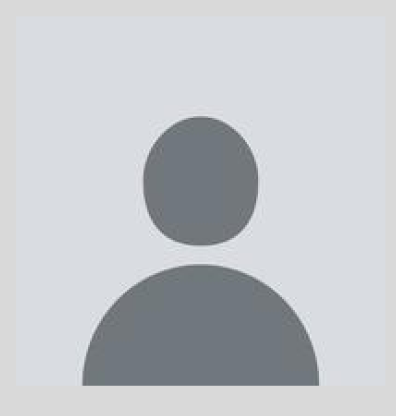
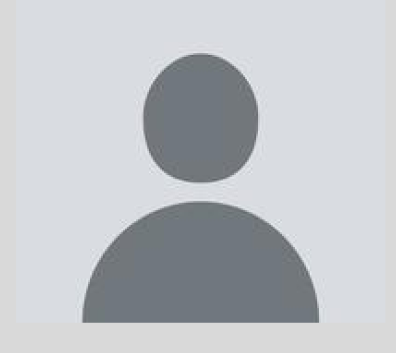
some changes

Changed region(s): [[0.2121, 0.1246, 0.8182, 0.9348]]

diff --git a/BSS-frontend/src/app/dashboard/dashboard.component.html b/BSS-frontend/src/app/dashboard/dashboard.component.html
@@ -40,9 +40,9 @@
                     <div class="battery-box-heading"><p>बैटरी-5</p></div>
                     <div class="battery-box">
                         <img [@batterySwapAnimation]="isSwapping ? 'open' : 'closed'" 
-                        src="./assets/{{isSwapping ? 'open-door1.jpeg' : 'charges-battery.png'}}" 
+                        src="./assets/{{isSwapping ? 'drawer.png' : 'charges-battery.png'}}" 
                         alt="battery-image">
-                                        </div>
+                    </div>
                 </div>
                 <div class="battery-box-p">
                     <div class="battery-box-heading"><p>बैटरी-6</p></div>
@@ -86,10 +86,10 @@
                 </div>
             </div>
             <div class="about-client" *ngIf="selectedUser">
-                <p>ग्राहक आईडी:{{selectedUser.userId}}</p>
-                <p>नाम:{{selectedUser.userName}}</p>
-                <p>इंजन संख्या:{{selectedUser.engineNumber}}</p>
-                <p>मोबाइल नंबर:{{selectedUser.mobileNumber}}</p>
+                <p>ग्राहक आईडी: <span>{{selectedUser.userId}}</span></p>
+                <p>नाम: <span>{{selectedUser.userName}}</span> </p>
+                <p>इंजन संख्या: <span>{{selectedUser.engineNumber}}</span> </p>
+                <p>मोबाइल नंबर: <span>{{selectedUser.mobileNumber}}</span> </p>
             </div>
         </div>
     </div>

diff --git a/BSS-frontend/src/app/dashboard/dashboard.component.css b/BSS-frontend/src/app/dashboard/dashboard.component.css
@@ -105,20 +105,27 @@
     justify-content: flex-start;
     align-items: center;
 }
-.client-profile-img-box{
-    border-radius: 50%;
-    width: 170px;
-    height: 170px;
-    margin-bottom: 50px;
-}
 .client-profile-img{
+    width: 100%;
     display: flex;
     justify-content: center;
     align-items: center;
+    margin-bottom: 50px;
 }
+.client-profile-img-box{
+    border-radius: 50%;
+    width: 180px;
+    height: 180px;
+    display: flex;
+    justify-content: center;
+    align-items: center;
+    background-color: #D9DCE1;
+}
+
+
 .user-profile{
-    width: 170px;
-    height: 170px;
+    width: 150px;
+    height: 150px;
     border-radius: 50%;
 }
 .about-client{

diff --git a/BSS-frontend/src/app/dashboard/dashboard.component.ts b/BSS-frontend/src/app/dashboard/dashboard.component.ts
@@ -39,6 +39,10 @@ export class DashboardComponent implements OnInit{
   rfId!: string;
   irData!: boolean;
 
+  
+  isSwapping = false;  
+  swapInterval: any;
+
   constructor(
     private webSocketService: WebsocketService,
     private apiService: ApiService,
@@ -75,16 +79,13 @@ export class DashboardComponent implements OnInit{
         console.log('Something Went Wrong');
       },
     });
-  }
 
-  isSwapping = false;  
-  swapInterval: any;
-
-  ngOnInit(): void {
     this.swapInterval = setInterval(() => {
       this.toggleSwapState();  
     }, 3000);
   }
+
+
 
   toggleSwapState() {
     this.isSwapping = !this.isSwapping; 

diff --git a/BSS-frontend/src/app/services/websocket.service.ts b/BSS-frontend/src/app/services/websocket.service.ts
@@ -1,7 +1,7 @@
 import { Injectable } from '@angular/core';
 import { Stomp } from '@stomp/stompjs';
-import SockJS from 'sockjs-client';
 import { Subject, Observable, BehaviorSubject } from 'rxjs';
+import SockJS from 'sockjs-client';
 
 @Injectable({
   providedIn: 'root',

diff --git a/BSS-frontend/src/app/app.routes.ts b/BSS-frontend/src/app/app.routes.ts
@@ -9,7 +9,8 @@ export const routes: Routes = [
         component:HomeComponent
     },
     {
-        path:"dashboard/:rfId",
+        // path:"dashboard/:rfId",
+        path:"dashboard",
         component:DashboardComponent
     },
     {
